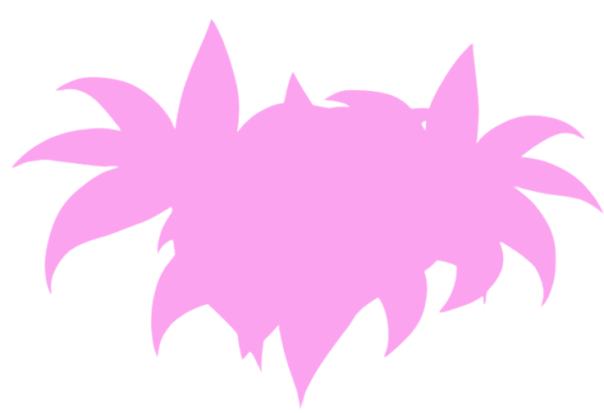
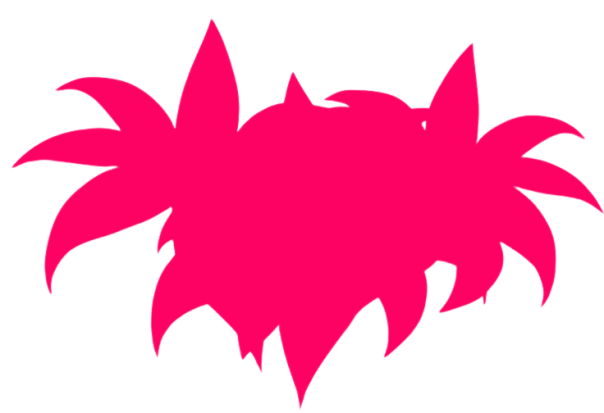
finalized the landing page

diff --git a/styles.css b/styles.css
@@ -16,14 +16,14 @@
     --honeydew: honeydew;
     --black: black;
     --pink: #ffcfe1;
-    --lilac: #9f8fa9;
+    --lilac: #9f05ff;
     --beige-10: #ffeee0;
-    --dark-blue: #18113c;
-    --dark-red: #a70a00;
+    --dark-blue: #fa6491;
+    --dark-red: #f97acf;
     --red: #c50019;
     --none: 0px;
     --max-width: 1600px;
-    --near-black: #0c0c0c;
+    --near-black: #ff84d0;
     --guidelines-image-small: 25vw;
     --guidelines-image-large: 24rem;
     --beige-20: #ffe0c8;
@@ -35,7 +35,7 @@
     --page-padding-laptop: 56px;
     --grey: #767676;
     --body-font: "Poppins";
-    --pink2: #ffb4d1;
+    --pink2: #fe0263;
     --fontsize: 30px;
     --small-fontsize: 20px;
 }
@@ -70,7 +70,7 @@ nav{
     border-radius: 1.5em;
     display: flex;
     align-items: center;
-    color: var(--dark-blue);
+    color: var(--beige-10);
     font-weight: 500;
 
 }
@@ -99,12 +99,13 @@ nav{
 .container-text h1{
     font-size: 12em;
      font-family: 'Humane';
+     color: rgb(253, 255, 253);
       -webkit-box-reflect: below 0px
     linear-gradient(transparent, rgba(0,0,0,0.3));
-
+    -webkit-text-stroke: 2px #000;
 }
 .yolo{
-    color: var(--nope-yellow);
+    color: red;
 
 }
 .container-text p{
@@ -152,7 +153,7 @@ nav{
 .butterfly img{
     width: 10%;
      -webkit-box-reflect: below 10px
-    linear-gradient(transparent, rgba(0,0,0,0.3));
+    linear-gradient(transparent, rgba(0, 0, 0, 0.3));
 }
 .bush{
     position: absolute;
@@ -176,7 +177,7 @@ nav{
     justify-content: center;
   width: 100em;       /* Circle width */
   height: 100em;      /* Circle height - same as width */
-  background-color: rgb(3, 115, 226); /* Circle color */
+  background-color: rgb(114, 226, 3); /* Circle color */
   border-radius: 50%;
   left: -5%;
   bottom: -90em; /* Makes it a perfect circle */
@@ -249,6 +250,24 @@ nav{
   50% { transform: rotate(-2deg); }
   75% { transform:  rotate(-1deg); }
   100% { transform: rotate(0); }
+}
+.bg-cover{
+    position: absolute;
+    left: 0;
+}
+.line2{
+    position: absolute;
+    right: 0;
+    transform: scaleX(-1);
+}
+.spill{
+    position: absolute;
+    opacity: 50%;
+}
+.iceee{
+    position: absolute;
+    bottom: 0;
+    z-index: 900;
 }
 
 

diff --git a/index.html b/index.html
@@ -42,6 +42,18 @@
         </nav>
 
         <div class="container-text">
+            <div class="bg-cover">
+                <img src="images/line.png" alt="">
+            </div>
+            <div class="line2">
+                <img src="images/line2.png" alt="">
+            </div>
+            <div class="spill">
+                <img src="images/spill2.png" alt="">
+            </div>
+            <div class="iceee">
+                <img src="images/ice2.png" alt="">
+            </div>
             <h1>THIS IS WHERE <span class="yolo">YOLO</span></h1>
             <p>Ditch the pink bows and forget the sugar-coated stereotypes, YOLO is here to serve you a reality sundae with a double scoop of truth.</p>
             <div class="anime container-js">
@@ -67,9 +79,9 @@
                     <img src="images/bush.png" alt="">
                 </div>
                 <div class="circle"></div>
-                <div class="cat">
+                <!-- <div class="cat">
                     <img src="images/cat.png" alt="">
-                </div>
+                </div> -->
                 <div class="imgs">
                     <div class="img1 shake1">
                         <img src="images/img1.png" alt="">

diff --git a/script.js b/script.js
@@ -1,14 +1,12 @@
    const container = document.querySelector('.container-js');
     const elements = document.querySelectorAll('.star-js, .image-js');
 
-    container.addEventListener('mousemove', (e) => {
-      const { innerWidth, innerHeight } = window;
-      
-      // Calculate mouse position relative to center
-      const moveX = (e.clientX - innerWidth / 2) / 40; // smaller divisor = more movement
-      const moveY = (e.clientY - innerHeight / 2) / 40;
+    container.addEventListener("mousemove", (e)=>{
+        const { innerWidth, innerHeight } = window;
+        const moveX = (e.clientX-innerWidth/2)/10;
+        const moveY = (e.clientY - innerHeight/2)/10;
 
-      elements.forEach(el => {
-        el.style.transform = `translate(${moveX}px, ${moveY}px)`;
-      });
-    });
+        elements.forEach(el =>{
+            el.style.transform = `translate(${moveX}px, ${moveY}px)`;
+        })
+    })
